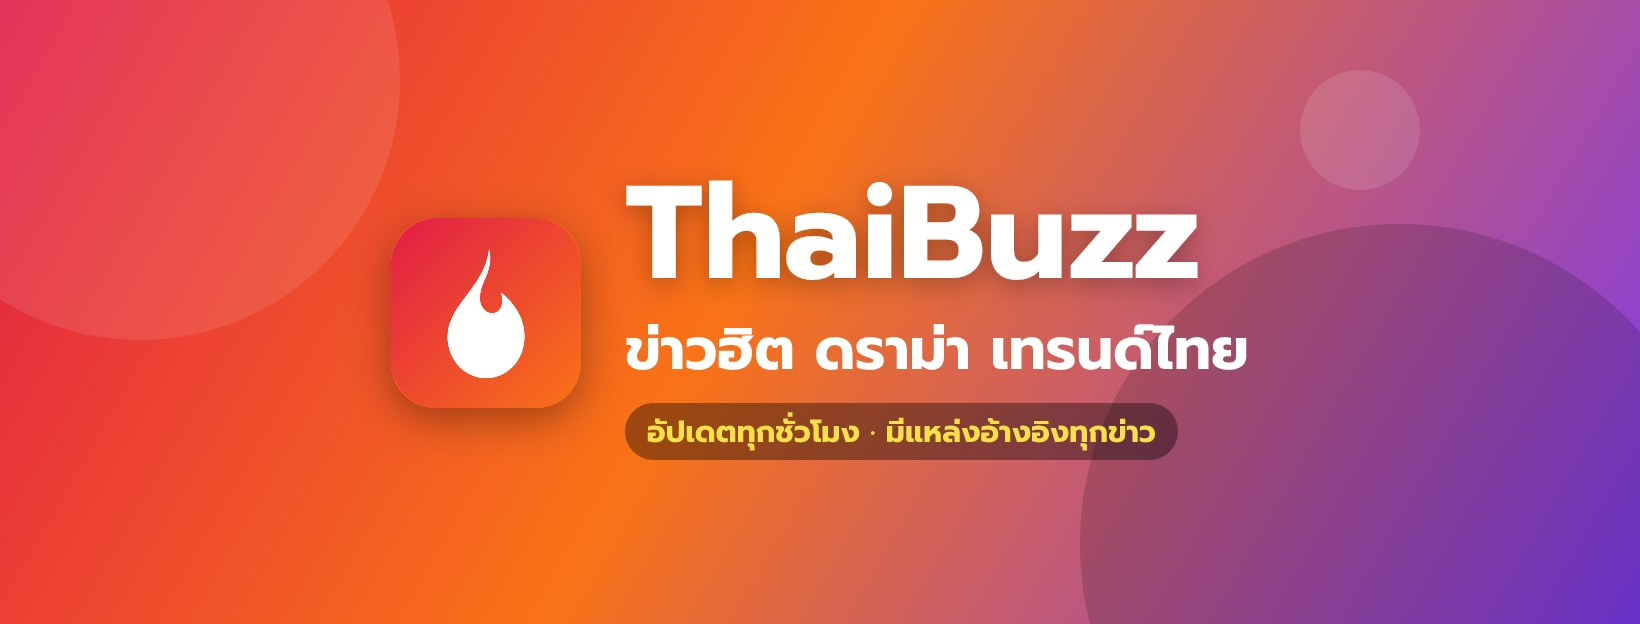
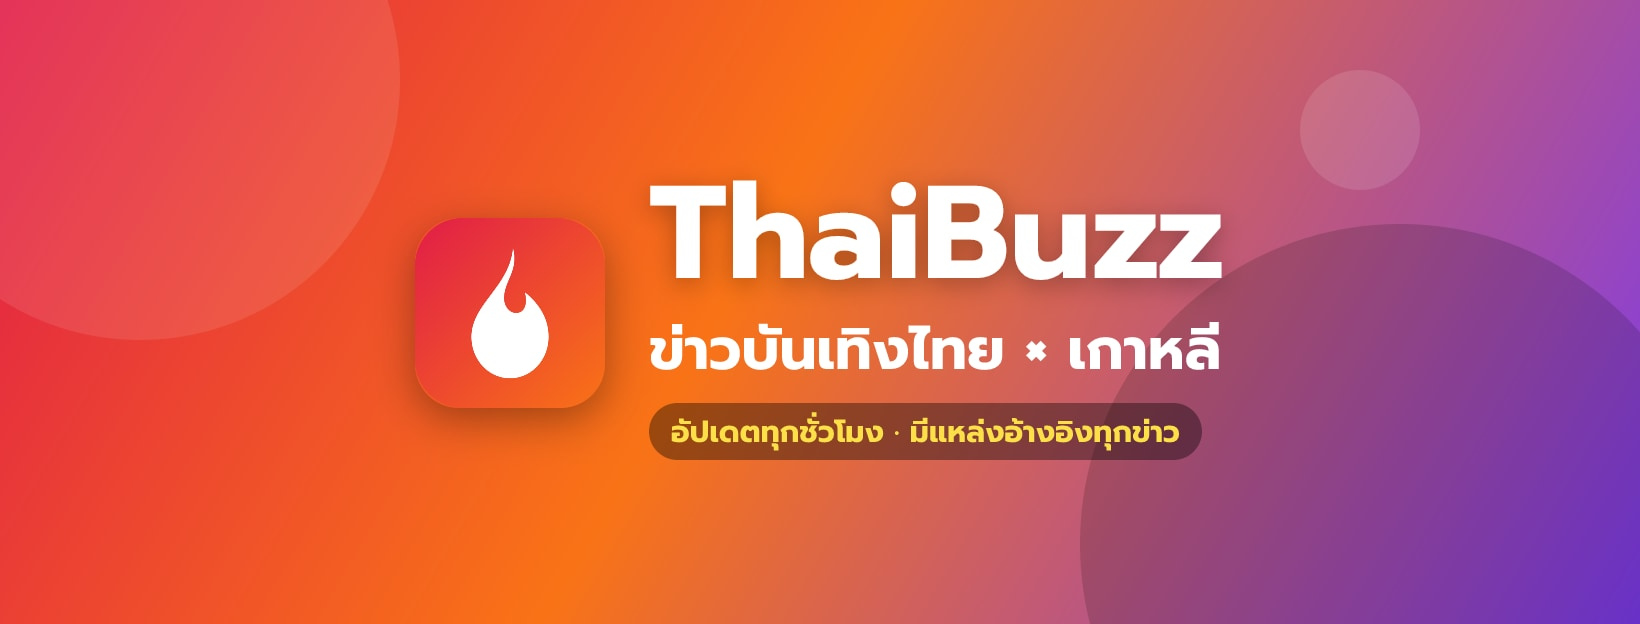
fix: broken noise regex crashed pipeline; Korean sources use premium model; K category SEO label; brand/OG tagline; kr_only + max_per_day manual inputs

Changed region(s): [[0.2177, 0.274, 0.7774, 0.7308]]

diff --git a/lib/category-page.tsx b/lib/category-page.tsx
@@ -16,12 +16,15 @@ export function categoryMeta(slug: string, page = 1): Metadata {
   // หน้าว่าง/บาง ไม่ให้ index (กัน thin content) — sitemap.ts 도 같은 기준(categoryIndexable) 사용
   const thin = page > pageCount(count) || !categoryIndexable(count);
   // "ข่าวทั่วไป" 처럼 이미 "ข่าว" 로 시작하는 이름에 접두어가 중복되지 않게
-  const label = c.name.startsWith('ข่าว') ? c.name : `ข่าว${c.name}`;
+  // K-บันเทิง 는 라틴 문자로 시작해 "ข่าวK-…" 가 어색 → 검색어에 맞는 별도 표기
+  const label = c.slug === 'korea' ? 'ข่าวบันเทิงเกาหลี' : c.name.startsWith('ข่าว') ? c.name : `ข่าว${c.name}`;
   const title = `${label}ล่าสุด${page > 1 ? ` หน้า ${page}` : ''}`;
   return {
     robots: thin ? { index: false, follow: true } : undefined,
     title,
-    description: `รวม${label} ประเด็นร้อนและเทรนด์ล่าสุดที่คนไทยกำลังพูดถึง อัปเดตตลอด 24 ชั่วโมง`,
+    description: c.slug === 'korea'
+      ? 'ข่าว K-pop ไอดอล ซีรีส์เกาหลี และศิลปินไทยในวงการเกาหลี เรียบเรียงจากสื่อเกาหลีต้นฉบับโดยบรรณาธิการชาวเกาหลี อัปเดตตลอด 24 ชั่วโมง'
+      : `รวม${label} ประเด็นร้อนและเทรนด์ล่าสุดที่คนไทยกำลังพูดถึง อัปเดตตลอด 24 ชั่วโมง`,
     alternates: { canonical: path },
     openGraph: og(path, title),
   };

diff --git a/app/page.tsx b/app/page.tsx
@@ -1,5 +1,5 @@
 import { homeFeed, type Post } from '@/lib/posts';
-import { CATEGORIES } from '@/lib/site';
+import { CATEGORIES, SITE } from '@/lib/site';
 import { Card, Lead } from '@/components/PostCard';
 import { Listing } from '@/components/Listing';
 
@@ -14,7 +14,7 @@ export default function Home() {
 
   return (
     <>
-      <h1 className="sr-only">ThaiBuzz ข่าวฮิต ดราม่า เทรนด์ล่าสุด</h1>
+      <h1 className="sr-only">{SITE.name} {SITE.tagline}</h1>
       <section className="hero" aria-label="ข่าวเด่น">
         <Lead p={top[0]} />
         {top.length > 1 && <div className="hero-side">{top.slice(1).map((p: Post) => <Card key={p.slug} p={p} priority />)}</div>}
